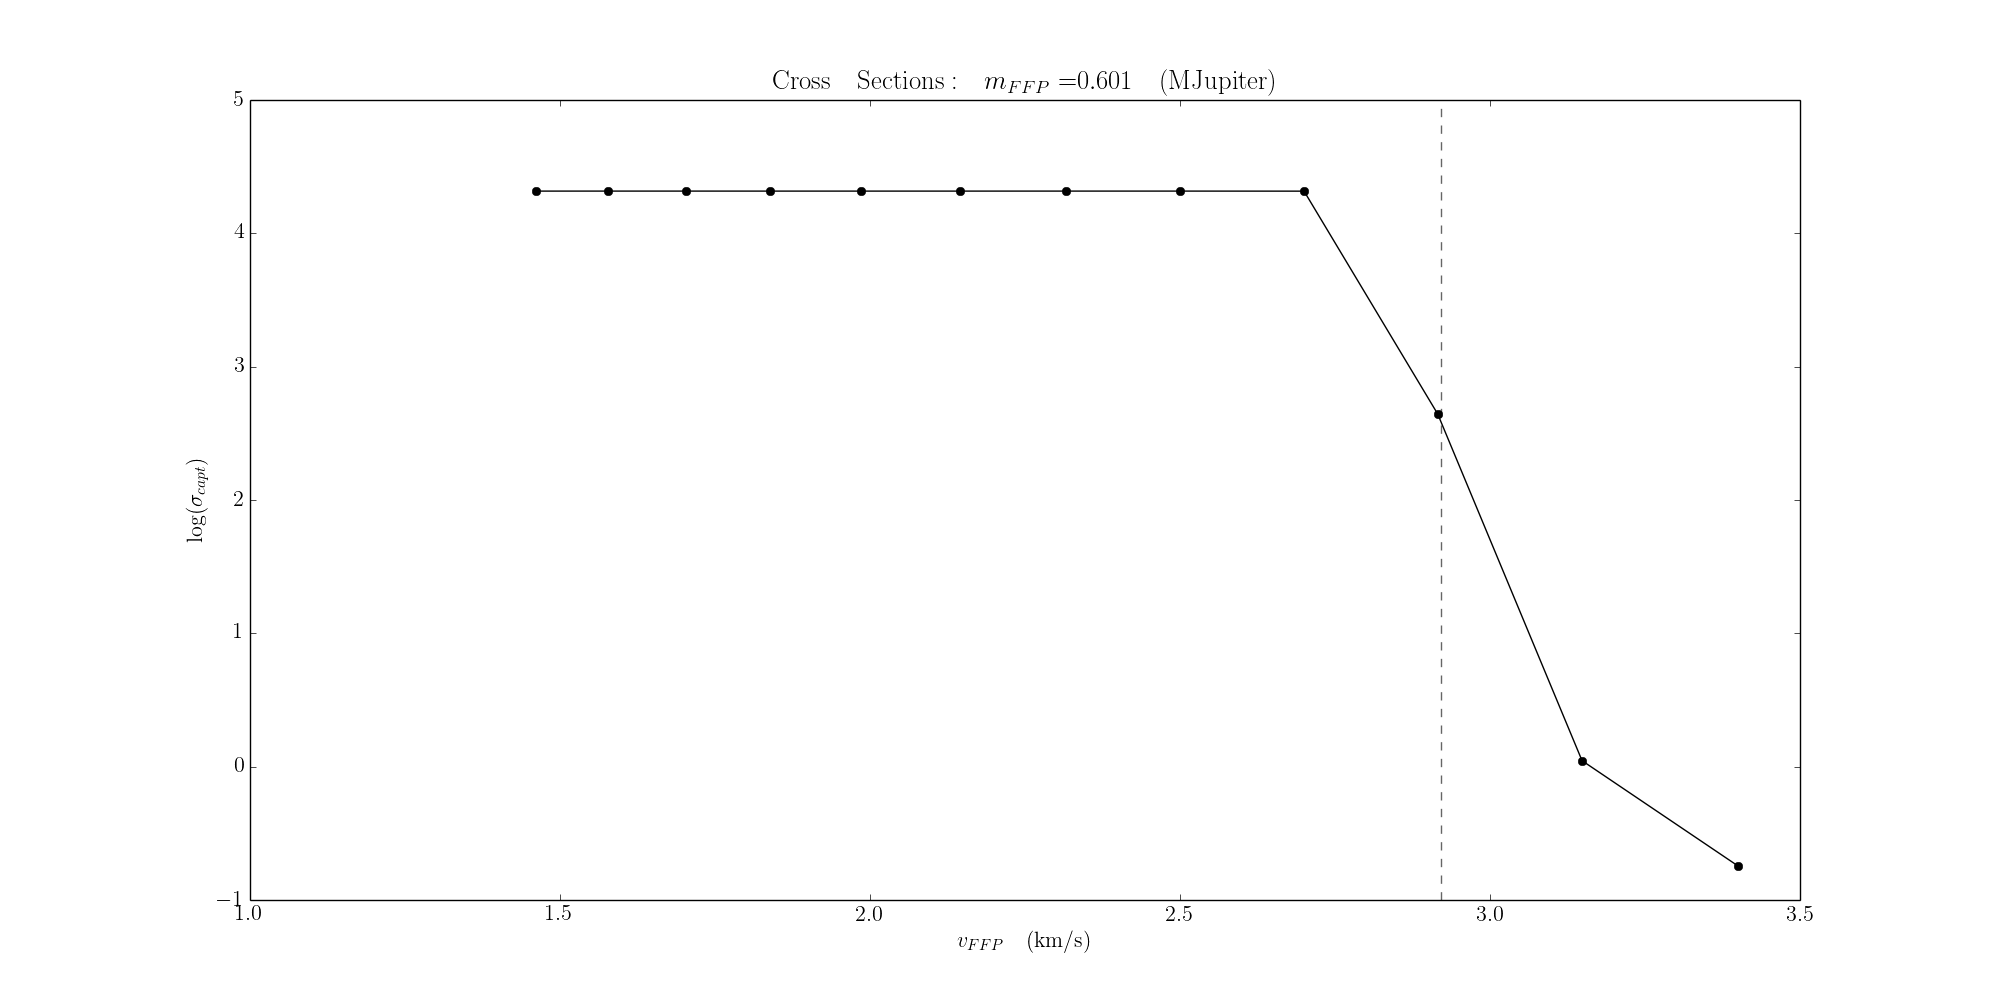
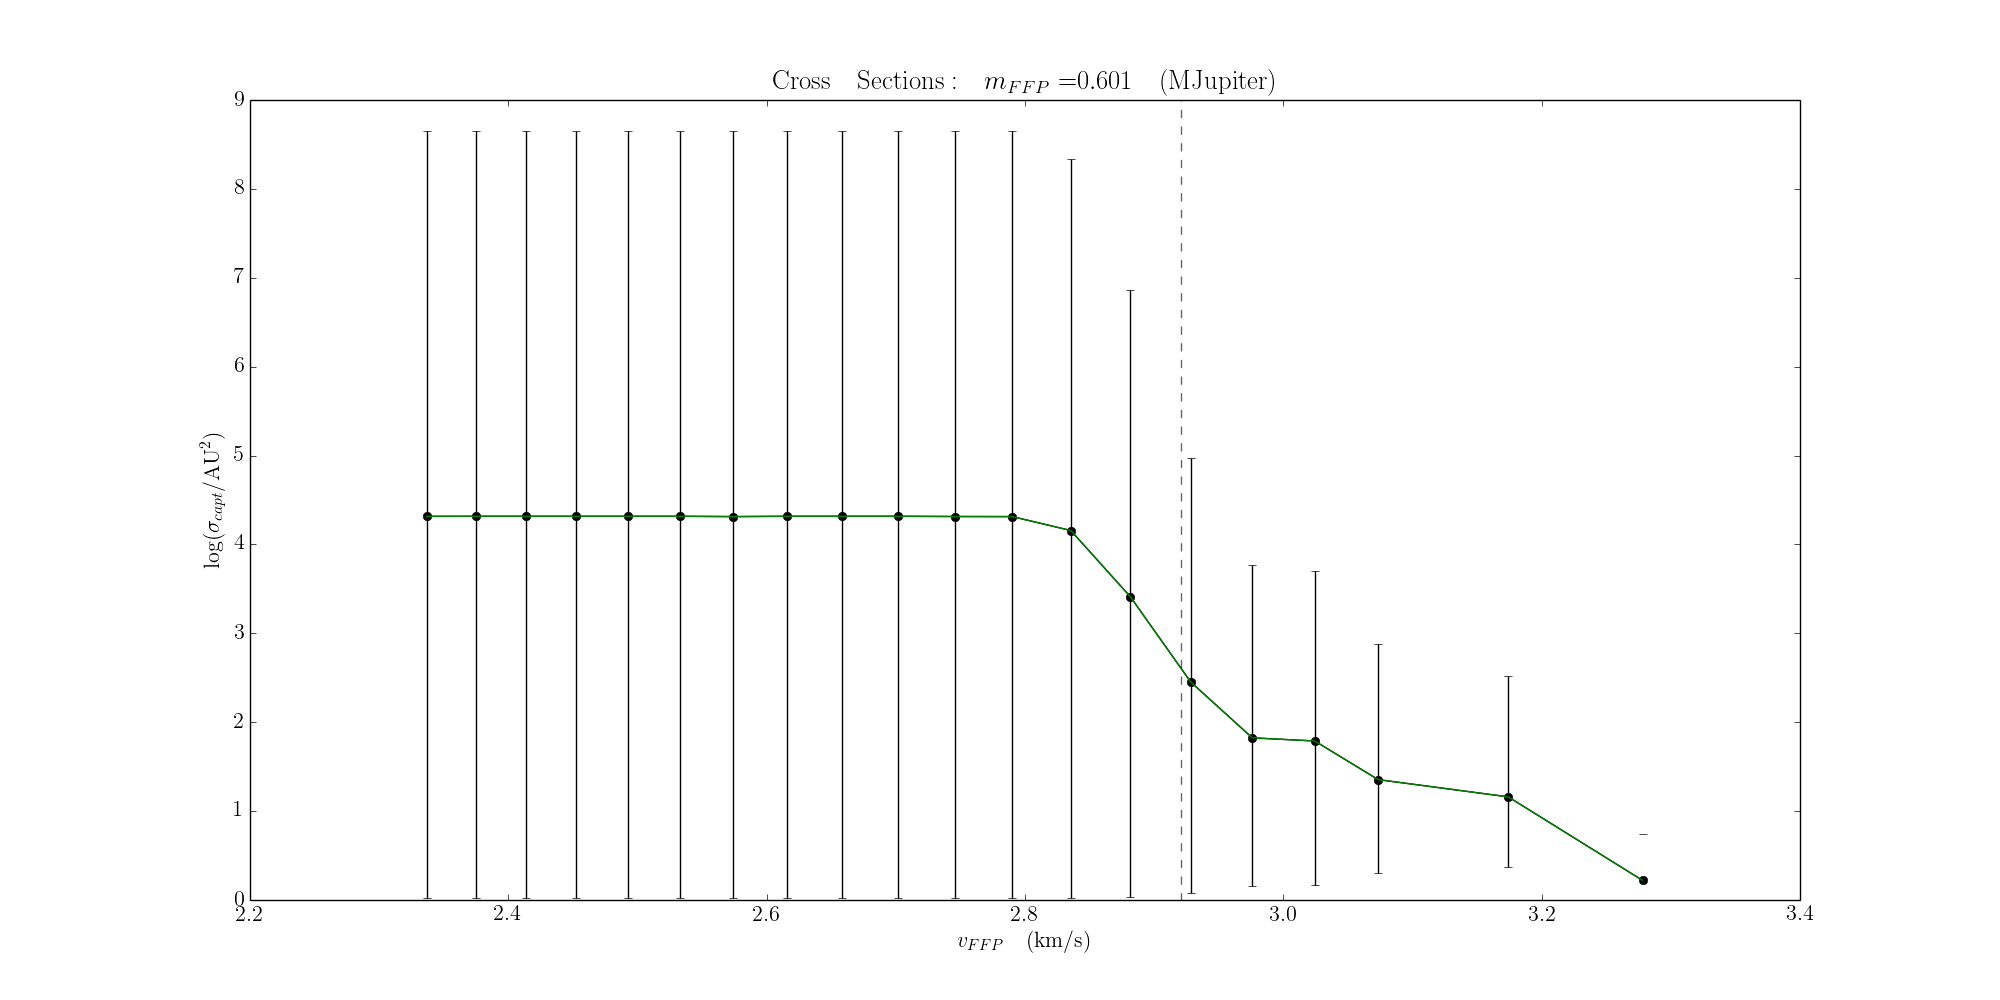
update in cross section plots and range for running again

diff --git a/CrossSections/cross_sections.py b/CrossSections/cross_sections.py
@@ -2,7 +2,7 @@ import os
 import pandas as pd
 import numpy as np
 import matplotlib.pyplot as plt
-from matplotlib import rc
+from matplotlib import rc, cm
 
 rc('font',**{'size': 16})
 rc('text', usetex=True)
@@ -68,7 +68,8 @@ def plot_cross_sections_vs_velocity(m_ffp, vs_ffp_captured, bs_ffp_captured, vs_
     
     x_axis = []
     y_axis = []
-    y_axis_errors = []
+    y_axis_errors_up = []
+    y_axis_errors_low = []
     
     unique_velocities, number_unique_velocities = np.unique(vs_ffp_total, return_counts=True)
     
@@ -89,35 +90,33 @@ def plot_cross_sections_vs_velocity(m_ffp, vs_ffp_captured, bs_ffp_captured, vs_
         
         if(cs != 0.0):
             log_cs = np.log10(cs)
-            log_cs_error = np.log10(cs/np.sqrt(number_captures))
-        else:
-            log_cs = -float('Inf') #low negative number
-            log_cs_error = 0.0
+            log_cs_error_up = np.log10(cs+cs/max(1.0,np.sqrt(number_captures)))
+            log_cs_error_low = np.log10(cs-cs/max(1.0,np.sqrt(number_captures)))
+            x_axis.append(uniq_vel)
+            y_axis.append(log_cs)
+            y_axis_errors_up.append(log_cs_error_up)
+            y_axis_errors_low.append(log_cs_error_low)
             
-        x_axis.append(uniq_vel)
-        y_axis.append(log_cs)
-        y_axis_errors.append(log_cs_error)
-        
     figure = plt.figure(figsize=(20,10))    
     fig = figure.add_subplot(1,1,1)
     
     fig.plot(x_axis, y_axis, c='black', marker='o')
-    #fig.errorbar(x_axis, y_axis, xerr=None, yerr=y_axis_errors, ecolor='black')
-    fig.axvline(unique_velocities[0]*2, 0.0, 6.0, c='black', linestyle='--', alpha=0.6)
+    fig.errorbar(x_axis, y_axis, xerr=None, yerr=[y_axis_errors_low, y_axis_errors_up], ecolor='black')
+    fig.axvline(unique_velocities[0]*10.0/8.0, -10, 10, c='black', linestyle='--', alpha=0.6)
     
-    #fig.set_xlim(unique_velocities[0]*0.9, unique_velocities[-1]*1.01)
-    #fig.set_ylim(-0.5, 5.5)
+    #fig.set_xlim(x_axis[0]*0.99, x_axis[-1]*1.01)
+    #fig.set_ylim(min(y_axis)*0.99, max(y_axis)*1.01)
     
     m_ffp_string = r"${0:.3f}$".format(m_ffp)
     
     fig.set_title('$\mathrm{Cross\quad Sections:}\quad m_{FFP}=$'+m_ffp_string+'$\mathrm{\quad (MJupiter)}$')    
     fig.set_xlabel('$v_{FFP}\quad \mathrm{(km/s)}$')    
-    fig.set_ylabel('$\log(\sigma_{capt})$')    
+    fig.set_ylabel('$\log(\sigma_{capt}/\mathrm{AU}^2)$')    
     
     figure.savefig('./plots/cross_sections_'+str(m_ffp)+'.png')
     plt.close(figure)
     
-    return x_axis, y_axis, y_axis_errors
+    return x_axis, y_axis, y_axis_errors_low, y_axis_errors_up
 
 if __name__ in ('__main__', '__plot__'):
     
@@ -138,8 +137,7 @@ if __name__ in ('__main__', '__plot__'):
     #Make statistics plots
     figure = plt.figure(figsize=(25,15))  
     fig = figure.add_subplot(1,1,1)
-    markers = [".",">","v","d","s","D","p","H","*","o"]
-    colors=['r','b','g','y','m','c','k','r','b','g']
+    color=iter(cm.rainbow(np.linspace(0,1,10)))
     
     for j in range(len(ms_ffp_par_uniq)):
         
@@ -151,18 +149,17 @@ if __name__ in ('__main__', '__plot__'):
         vs_ffp_total = np.array(vs_ffp_par)[np.where(ms_ffp_par == m_ffp)]
         bs_ffp_total = np.array(bs_ffp_par)[np.where(ms_ffp_par == m_ffp)]
         
-        x_axis, y_axis, y_axis_errors = plot_cross_sections_vs_velocity(m_ffp, vs_ffp_captured, bs_ffp_captured, vs_ffp_total, bs_ffp_total)
+        x_axis, y_axis, y_axis_errors_low, y_axis_errors_up = plot_cross_sections_vs_velocity(m_ffp, vs_ffp_captured, bs_ffp_captured, vs_ffp_total, bs_ffp_total)
         
         m_ffp_string = r"${0:.3f}$".format(m_ffp)
-        fig.plot(x_axis, y_axis, c=colors[j], marker=markers[j], label='$m_{FFP}=$'+m_ffp_string+' $\mathrm{(MJupiter)}$')
-        #fig.errorbar(x_axis, y_axis, xerr=None, yerr=y_axis_errors, ecolor=colors[j])
+        c=next(color)
+        fig.plot(x_axis, y_axis, c=c, marker='.', label='$m_{FFP}=$'+m_ffp_string+' $\mathrm{(MJupiter)}$')
+        #fig.errorbar(x_axis, y_axis, xerr=None, yerr=[y_axis_errors_low, y_axis_errors_up], ecolor=c)
     
-    fig.axvline(x_axis[0]*2, 0.0, 5.5, c='black', linestyle='--', alpha=0.6)
-#    fig.set_xlim(x_axis[0]*0.9, x_axis[-1]*1.01)
-#    fig.set_ylim(-0.5, 5.5)
+    fig.axvline(min(vs_ffp_total)*10.0/8.0, -10, 10, c='black', linestyle='--', alpha=0.6)    
     fig.set_title('$\mathrm{Cross\quad Sections}$')    
     fig.set_xlabel('$v_{FFP}\quad \mathrm{(km/s)}$')    
-    fig.set_ylabel('$\log(\sigma_{capt})$')    
+    fig.set_ylabel('$\log(\sigma_{capt}/\mathrm{AU}^2)$')    
     fig.legend()
     figure.savefig('./plots/cross_sections.png')
     plt.close(figure)

diff --git a/CrossSections/run.py b/CrossSections/run.py
@@ -55,7 +55,7 @@ def permute(m_ffp):
 
     #Numbers of each parameter
     n_vs_ffp = 40
-    n_bs_ffp = 500
+    n_bs_ffp = 1000
     
     total_permutations = n_vs_ffp*n_bs_ffp
     
@@ -64,8 +64,10 @@ def permute(m_ffp):
 
     #Variable parameters
     critical_velocity = get_critical_velocity(m0, m_bp, n_r0_in_rinf*a_bp) #km/s
-    vs_ffp_log = 10**(np.linspace(np.log10(0.8*critical_velocity), np.log10(1.5*critical_velocity), n_vs_ffp)) #km/s
-
+    vs_ffp_log_1 = 10**(np.linspace(np.log10(0.8*critical_velocity), np.log10(0.999*critical_velocity), 3)) #km/s
+    vs_ffp_log_2 = 10**(np.linspace(np.log10(1.001*critical_velocity), np.log10(1.4*critical_velocity), n_vs_ffp-3)) #km/s
+    vs_ffp_log = np.concatenate((vs_ffp_log_1, vs_ffp_log_2)) #km/s
+    
     #Filenames to write info
     m_ffp_filename = ('m%.4e')%(m_ffp)
     filename_parameters = './particles/'+m_ffp_filename+'/parameters_'+m_ffp_filename+'.txt'
